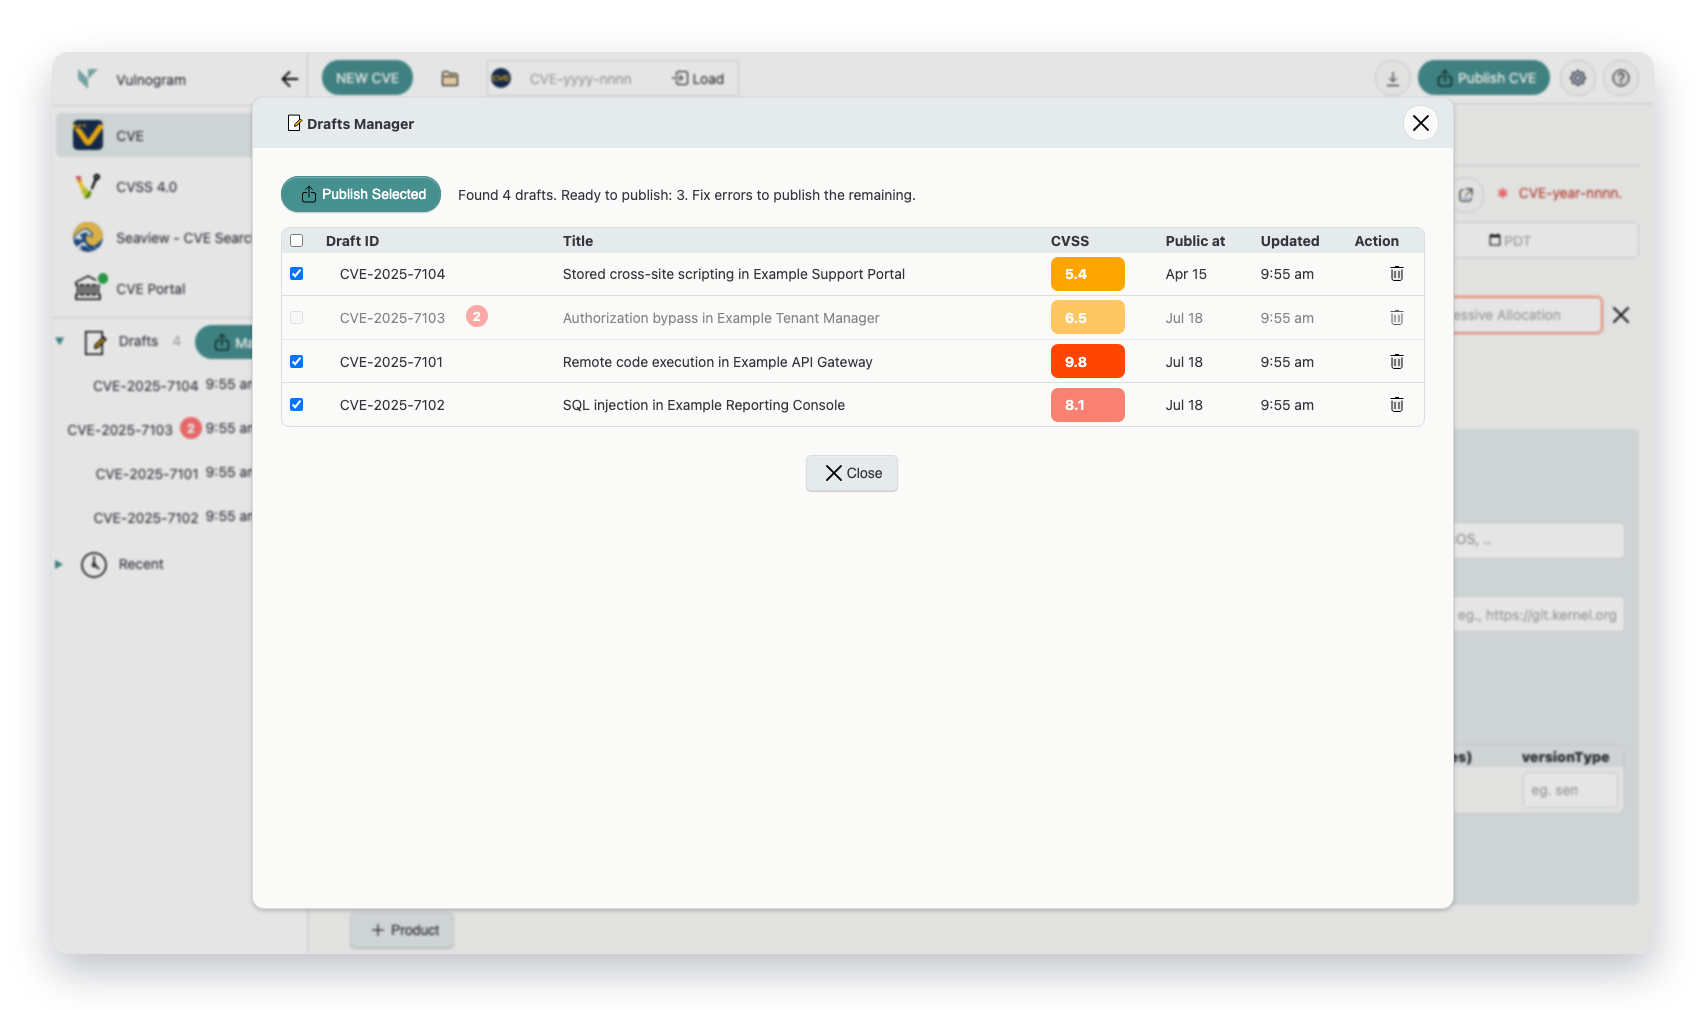
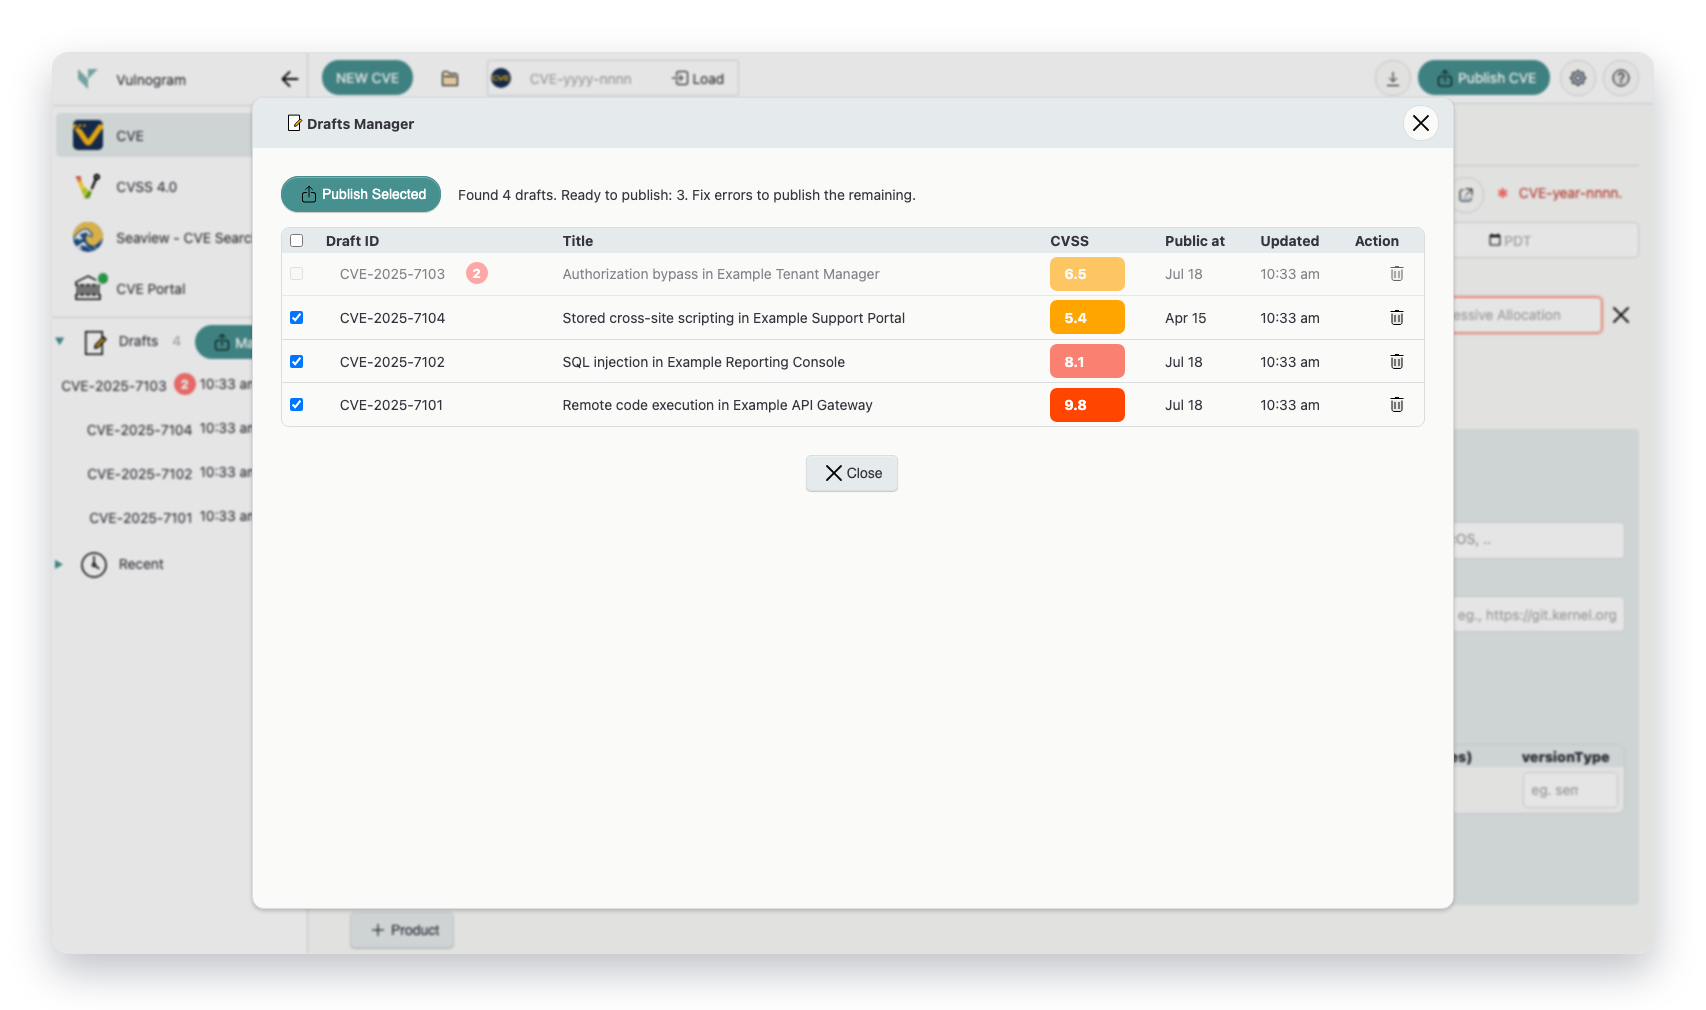
update docs

diff --git a/docs/index.html b/docs/index.html
@@ -1,0 +1,87 @@
+<!DOCTYPE html>
+<html lang="en">
+<head>
+<meta charset="utf-8">
+<meta name="viewport" content="width=device-width, initial-scale=1.0">
+<title>Using Vulnogram with CVE Services</title>
+<link rel="stylesheet" href="https://vulnogram.org/css/min.css" />
+<link rel="stylesheet" href="https://vulnogram.org/css/vg-icons.css" />
+<style>body {background-color:var(--wht);} .doc-hero {margin:1rem 0 2rem;} .doc-hero img {display:block;width:100%;max-width:1200px;height:auto;border-radius:18px;box-shadow:0 12px 32px rgba(15,23,42,0.18);} .doc-hero a {display:inline-block;}</style>
+<style>.doc-content{max-width:1100px;width:100%;box-sizing:border-box;margin:0 auto;padding:0 1.5rem 4rem;} .doc-content img{max-width:100%;height:auto;} blockquote{border-left:4px solid #d90429;background:rgba(217,4,41,0.06);margin:1rem 0;padding:0.5rem 1rem;border-radius:0 8px 8px 0;} .caption{margin-top:0.3rem;color:#475569;}</style>
+</head>
+<body id="body" class="cve">
+<input id="sidebarToggle" type="checkbox" checked>
+<div class="layout-grid">
+<label class="sidebar-overlay" for="sidebarToggle"></label>
+<aside class="sidebar">
+<div class="sidebar-head pad"><label class="lbl vgi-logo" for="sidebarToggle">Vulnogram</label><label class="vgi-larrow" for="sidebarToggle"></label></div>
+<nav class="sidebar-nav pad">
+<a class="lbl vgi-cvev" href="https://www.vulnogram.org/" title="Open the Vulnogram CVE editor">CVE Editor</a>
+<a class="lbl vgi-cvss-logo" href="https://www.vulnogram.org/cvss4" title="Common Vulnerability Scoring System">CVSS 4.0</a>
+<a class="lbl vgi-wave" href="https://www.vulnogram.org/seaview/" title="Search and View CVEs">Seaview - CVE Search</a>
+<a class="lbl vgi-what rnd sec" href="./" title="Using Vulnogram with CVE Services">Documentation</a>
+<label class="sidebar-nav-fill" for="sidebarToggle" aria-label="Toggle sidebar"></label>
+</nav>
+<div class="sidebar-foot"></div>
+</aside>
+<main class="main-area">
+<div class="doc-content">
+<h1>Using <span class="vgi-logo">Vulnogram</span> with CVE Services</h1>
+<p class="doc-hero"><a href="https://www.vulnogram.org/"><img src="https://vulnogram.org/css/Vulnogram-og.jpg" alt="Vulnogram - Reserve, Manage, Publish CVEs."/></a></p>
+<p class="caption"><em>Vulnogram - Reserve, Manage, Publish CVEs.</em></p>
+<h2>1. Access <span class="vgi-logo">Vulnogram</span></h2>
+<p>Open <a href="https://www.vulnogram.org">Vulnogram.org</a> for a quick start. The instance on <a href="https://www.vulnogram.org">Vulnogram.org</a> enables CNAs to use the browser to draft, manage, and publish CVE records. To enable multiple CNA team members to collaborate on drafts in a cental place, download and set up Vulnogram in <a href="https://github.com/Vulnogram/Vulnogram?tab=readme-ov-file#vulnogram-team-deployment">Team server mode</a>.</p>
+<img src="./screenshots/01-access-editor.png" alt="Vulnogram CVE editor workspace shown in a browser window with the URL visible"/>
+<p class="caption"><em>Access Vulnogram at <a href="https://www.vulnogram.org">https://www.vulnogram.org</a>.</em></p>
+<h2>2. Login to CVE Services</h2>
+<p>Open the <b class="lbl bor vgi-org">CVE Portal</b> panel, select the target portal (<code>production</code>, <code>test</code>, <code>adp-test</code>, or local), and authenticate with your CNA short name, CVE user, and API key.</p>
+<img src="./screenshots/02-portal-login.png" alt="CVE Portal login dialog in Vulnogram"/>
+<p class="caption"><em>CVE Services login form from the <b class="lbl bor vgi-org">CVE Portal</b> sidebar action.</em></p>
+<h2>3. Reserve CVE IDs</h2>
+<p>After login, use <b class="lbl bor vgi-magic">Reserve One CVE</b> or the dropdown batch actions to reserve IDs for the current year, next year, or previous year. Use state/year filters to find reserved IDs.</p>
+<img src="./screenshots/03-reserve-cve-ids.png" alt="CVE Portal reserve controls in Vulnogram"/>
+<p class="caption"><em><b class="lbl bor vgi-org">CVE Portal</b> reserve controls with state and year filters.</em></p>
+<h2>4. Enter CVE Record Details</h2>
+<p>Use the <strong>Editor</strong> tab to enter vulnerability details, affected products, references, and metrics. Switch between <strong>Editor</strong>, <strong>Source</strong>, and <strong>Preview</strong> tabs while drafting.</p>
+<p>For repeated CNA or ADP work, open the <strong>Configure Default Settings</strong> dialog from the top-right settings button <span class="rbtn vgi-cog"></span>. It lets you simplify the form for new entries by choosing default set of fields to show and by setting default vendor, product, and version-type values, which helps reduce repetitive edits and keeps new records more consistent.</p>
+<img src="./screenshots/04-enter-cve-details.png" alt="Vulnogram CVE editor detail form area"/>
+<p class="caption"><em>Primary <strong>Editor</strong> form where record content is entered.</em></p>
+<img src="./screenshots/04b-settings-dialog.png" alt="Vulnogram settings dialog for configuring default CNA, ADP, and product fields for new entries"/>
+<p class="caption"><em>The settings dialog configures defaults for new entries.</em></p>
+<h2>5. Publish to CVE Services</h2>
+<p>Use <b class="lbl bor vgi-export">Publish CVE</b> to submit the record to the currently selected portal. In test mode, publishing targets the CVE Services test environment.</p>
+<img src="./screenshots/05-publish-cve.png" alt="Vulnogram header with Publish CVE action"/>
+<p class="caption"><em>Top action bar with <b class="lbl bor vgi-export">Publish CVE</b> control.</em></p>
+<img src="./screenshots/05b-publish-multiple-cve.png" alt="Vulnogram drafts manager dialog showing multiple cached CVE entries"/>
+<p class="caption"><em><b class="lbl bor vgi-edit">Drafts Manager</b> with sample cached CVE entries ready for bulk publish.</em></p>
+<h2>6. Manage Users and API Keys (Admin)</h2>
+<p>Organization administrators can open <b class="lbl bor vgi-cog">Users</b> in the portal view to add users, update profile and role attributes, disable accounts, and reset API secrets.</p>
+<img src="./screenshots/06-admin-user-management.png" alt="CVE Portal user management popup in Vulnogram"/>
+<p class="caption"><em>Admin-oriented <b class="lbl bor vgi-cog">Users</b> management view in the <b class="lbl bor vgi-org">CVE Portal</b>.</em></p>
+<h2>7. How to Reject a CVE ID</h2>
+<p>Use <b class="lbl bor vgi-del">Reject this CVE ID</b> and <b class="lbl bor vgi-no">Reject this ID</b> controls to retire unused IDs or withdraw published records. The workflows below show where each reject action lives.</p>
+<h3>a) Rejecting Unused or Unpublished CVEs</h3>
+<img src="./screenshots/07a-reject-unused-cves.png" alt="CVE list table in Vulnogram portal with reject icon highlighted for an unused CVE ID"/>
+<p class="caption"><em>Unused/unpublished IDs can be rejected directly from <b class="lbl bor vgi-del">Reject this CVE ID</b> in the CVE list action column.</em></p>
+<h3>b) Rejecting Published CVEs</h3>
+<img src="./screenshots/07b-reject-published-cve.png" alt="Bottom of a loaded CVE editor form with reject this CVE ID link highlighted"/>
+<p class="caption"><em>Published records are rejected from the editor footer <b class="lbl bor vgi-no">Reject this ID</b> link after loading the CVE.</em></p>
+<h3>c) Rejecting Multiple CVE IDs</h3>
+<img src="./screenshots/07c-reject-multiple-select.png" alt="CVE list in Vulnogram portal with several IDs selected via checkboxes and the bulk Reject button highlighted"/>
+<p class="caption"><em>Select multiple IDs with the checkboxes, then use the <b class="lbl bor vgi-del">Reject</b> bulk action in the portal header.</em></p>
+<img src="./screenshots/07d-bulk-reject-dialog.png" alt="Bulk reject confirmation dialog in Vulnogram listing the selected CVE IDs with the Reject All button highlighted"/>
+<p class="caption"><em>Review the listed IDs and confirm with <b class="lbl bor vgi-del">Reject All</b>. Rejection cannot be undone.</em></p>
+<h2>8. Transfer CVE IDs to Another CNA</h2>
+<p>Select one or more IDs with the checkboxes and use the <b class="lbl bor vgi-forward">Transfer</b> bulk action in the portal header to move them to another CNA. A single ID can also be transferred with the <b class="lbl bor vgi-forward">Transfer this CVE ID</b> action in the list's Actions column. In the transfer dialog, pick the receiving CNA and confirm.</p>
+<blockquote>
+<p>⚠️ <strong>Warning:</strong> CVE Services does <strong>not</strong> notify the receiving CNA when a CVE ID is transferred to them. Always coordinate offline with the recipient CNA — and get their explicit agreement — before initiating a transfer.</p>
+</blockquote>
+<img src="./screenshots/08a-transfer-cve-controls.png" alt="CVE list in Vulnogram portal with several IDs selected and the bulk Transfer button highlighted"/>
+<p class="caption"><em>Select IDs and click <b class="lbl bor vgi-forward">Transfer</b>, or use the <b class="lbl bor vgi-forward">Transfer this CVE ID</b> row action for a single ID.</em></p>
+<img src="./screenshots/08b-transfer-cve-dialog.png" alt="Transfer CVE ID dialog in Vulnogram with the coordinate-before-you-transfer warning highlighted and a CNA selection dropdown"/>
+<p class="caption"><em>The transfer dialog lists the selected IDs and asks for the receiving CNA. Heed the highlighted warning: coordinate with the recipient CNA offline first, because CVE Services does not notify them.</em></p>
+</div>
+</main>
+</div>
+</body>
+</html>